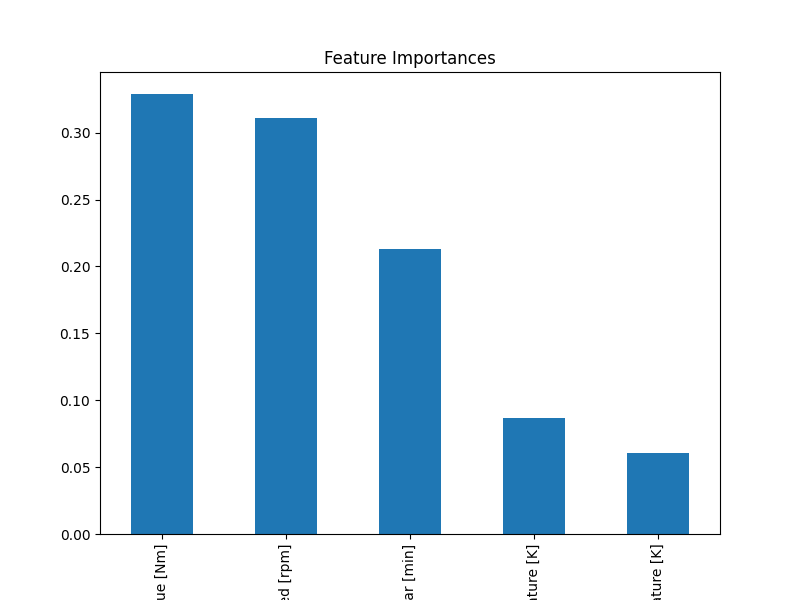
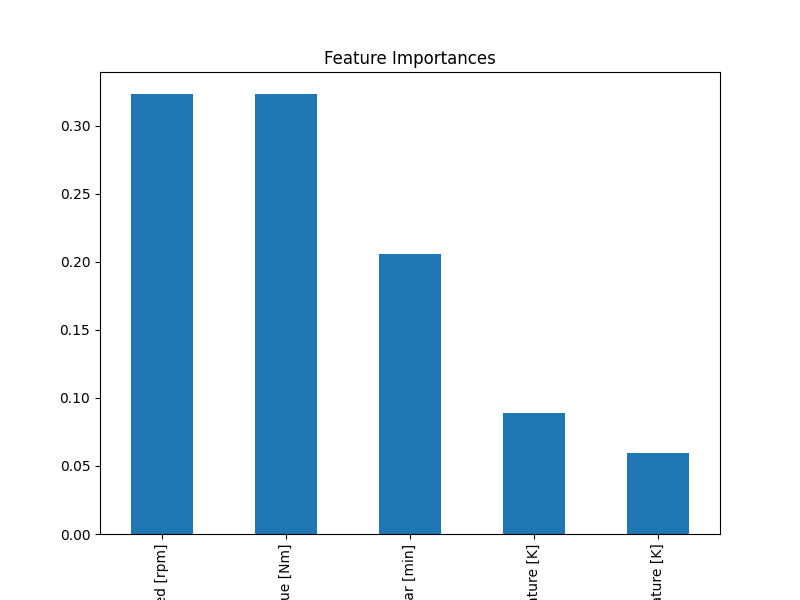
기말고사

diff --git a/Industrial-Safety-Prediction-Model.py b/Industrial-Safety-Prediction-Model.py
@@ -1,7 +1,7 @@
 import pandas as pd
 import matplotlib.pyplot as plt
 import seaborn as sns
-from sklearn.model_selection import train_test_split
+from sklearn.model_selection import train_test_split, KFold
 from sklearn.ensemble import RandomForestClassifier
 from sklearn.metrics import accuracy_score, confusion_matrix, precision_score, recall_score, f1_score
 from imblearn.over_sampling import RandomOverSampler
@@ -30,26 +30,43 @@ os.makedirs('results', exist_ok=True)
 plt.savefig('results/correlation_matrix.png')
 plt.show()
 
-# 훈련 데이터와 테스트 데이터로 나누기
-X_train, X_test, y_train, y_test = train_test_split(X_resampled, y_resampled, test_size=0.2, random_state=42)
+# KFold 교차 검증
+kf = KFold(n_splits=5, shuffle=True, random_state=42)
 
-# 머신러닝 모델 학습
-model = RandomForestClassifier(n_estimators=100, random_state=42)
-model.fit(X_train, y_train)
+accuracy_scores = []
+precision_scores = []
+recall_scores = []
+f1_scores = []
 
-# 예측
-y_pred = model.predict(X_test)
+for train_index, test_index in kf.split(X_resampled):
+    X_train, X_test = X_resampled.iloc[train_index], X_resampled.iloc[test_index]
+    y_train, y_test = y_resampled.iloc[train_index], y_resampled.iloc[test_index]
 
-# 성능 평가
-accuracy = accuracy_score(y_test, y_pred)
-precision = precision_score(y_test, y_pred)
-recall = recall_score(y_test, y_pred)
-f1 = f1_score(y_test, y_pred)
+    # 모델 학습
+    model = RandomForestClassifier(n_estimators=100, random_state=42)
+    model.fit(X_train, y_train)
 
-print(f'Accuracy: {accuracy * 100:.2f}%')
-print(f'Precision: {precision:.2f}')
-print(f'Recall: {recall:.2f}')
-print(f'F1 Score: {f1:.2f}')
+    # 예측
+    y_pred = model.predict(X_test)
+
+    # 성능 평가
+    accuracy_scores.append(accuracy_score(y_test, y_pred))
+    precision_scores.append(precision_score(y_test, y_pred))
+    recall_scores.append(recall_score(y_test, y_pred))
+    f1_scores.append(f1_score(y_test, y_pred))
+
+# KFold 평균 성능 계산
+avg_accuracy = sum(accuracy_scores) / len(accuracy_scores)
+avg_precision = sum(precision_scores) / len(precision_scores)
+avg_recall = sum(recall_scores) / len(recall_scores)
+avg_f1 = sum(f1_scores) / len(f1_scores)
+
+# KFold 결과 출력
+print("KFold Cross Validation Results:")
+print(f"Average Accuracy: {avg_accuracy:.2f}")
+print(f"Average Precision: {avg_precision:.2f}")
+print(f"Average Recall: {avg_recall:.2f}")
+print(f"Average F1 Score: {avg_f1:.2f}")
 
 # Feature Importances 그래프
 feature_importances = pd.Series(model.feature_importances_, index=X.columns)
@@ -60,20 +77,20 @@ plt.savefig('results/feature_importances.png')
 plt.show()
 
 # 성능 평가 그래프
-plt.figure(figsize=(6, 4))
-plt.bar(['Accuracy', 'Precision', 'Recall', 'F1 Score'], [accuracy, precision, recall, f1], color=['green', 'blue', 'orange', 'red'])
+plt.figure(figsize=(8, 6))
+plt.bar(['Accuracy', 'Precision', 'Recall', 'F1 Score'], [avg_accuracy, avg_precision, avg_recall, avg_f1], color=['green', 'blue', 'orange', 'red'])
 plt.ylim(0, 1)
-plt.title('Model Performance Metrics')
+plt.title('Average Model Performance Metrics')
 plt.ylabel('Score')
 os.makedirs('results', exist_ok=True)
-plt.savefig('results/performance_metrics_graph.png')
+plt.savefig('results/average_performance_metrics_graph.png')
 plt.show()
 
-# 혼동 행렬 그래프
+# 혼동 행렬 그래프 (마지막 KFold 결과 사용)
 conf_matrix = confusion_matrix(y_test, y_pred)
 plt.figure(figsize=(8, 6))
 sns.heatmap(conf_matrix, annot=True, fmt='d', cmap='Blues', cbar=False)
-plt.title('Confusion Matrix')
+plt.title('Confusion Matrix (Last Fold)')
 plt.xlabel('Predicted')
 plt.ylabel('Actual')
 plt.savefig('results/confusion_matrix.png')
